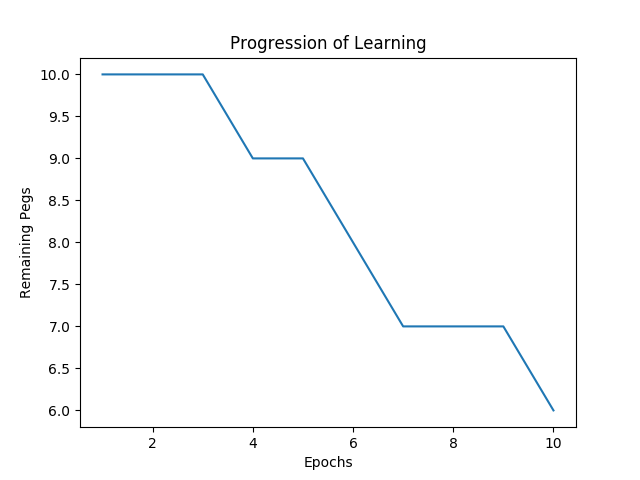
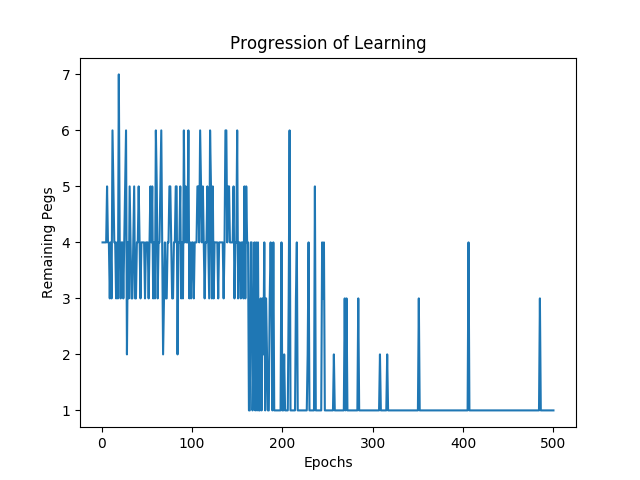
Model running and learning

diff --git a/agent/actor.py b/agent/actor.py
@@ -1,19 +1,6 @@
-"""
-POLICY:
-The actor’s policy should be represented as a table (or Python dictionary) that maps state-action pairs (s,a)
-to values that indicate the desirability of performing action a when in state s. For any state s, it is wise to
-normalize the values across all legal actions from s, thus yielding a probability distribution over the possible
-actions to take from s. The  greedy policy would then choose the action with the highest probability, or a
-random value.
-
-EPSILON:
-To insure a balance between exploration and exploitation, the actor should use its policy in an -greedy
-manner (see actor-critic.pdf), where eps is either a constant, user-supplied parameter, or a dynamic variable
-that changes (i.e. decreases) from earlier to later episodes. By setting eps = 0 at run’s end, the behavior policy
-essentially becomes the target policy. By displaying one game played with this policy, the user sees the best
-moves that the actor has found for the states of an episode.
-"""
 from collections import defaultdict
+from utils import is_empty
+import random
 
 
 class Actor:
@@ -26,6 +13,8 @@ class Actor:
         self.eligibility = defaultdict(lambda: 0)
         self.player = player
         self.td_error = None
+        self.epsilon = config["epsilon"]  # Epsilon for epsilon-greedy strategy
+        self.dr_epsilon = config["dr_epsilon"]  # Decay rate epsilon
 
     def reset_eligibility(self):
         """
@@ -41,7 +30,7 @@ class Actor:
         :param action: Action
         :return: float
         """
-        return self.policy[(state, action)]
+        return self.policy[(state, action.__str__())]
 
     def get_action(self, state):
         """
@@ -51,11 +40,13 @@ class Actor:
         """
         legal_actions = list(map(lambda action: (action, self.get_desirability(state, action)),
                                  self.player.get_legal_actions()))
-        legal_actions.sort(key=lambda tup: tup[1], reverse=True)
-        try:
-            return legal_actions[0][0]
-        except IndexError:
+        if is_empty(legal_actions):
             return None
+        if random.random() < self.epsilon:
+            return random.choice(legal_actions)[0]
+        else:
+            legal_actions.sort(key=lambda tup: tup[1], reverse=True)
+            return legal_actions[0][0]
 
     def set_eligibility(self, state, action, value):
         """
@@ -65,7 +56,7 @@ class Actor:
         :param value: int
         :return: None
         """
-        self.eligibility[(state, action)] = value
+        self.eligibility[(state, action.__str__())] = value
 
     def set_td_error(self, error):
         """
@@ -74,6 +65,14 @@ class Actor:
         :return: None
         """
         self.td_error = error
+
+    def set_epsilon(self, value):
+        """
+        Set the value of epsilon to value
+        :param: value: float
+        :return: None
+        """
+        self.epsilon = value
 
     def update_policy(self, state, action):
         """
@@ -84,7 +83,8 @@ class Actor:
         :param action: Action
         :return: None
         """
-        self.policy[(state, action)] += self.config["lr_actor"] * self.td_error * self.eligibility[(state, action)]
+        self.policy[(state, action.__str__())] += self.config["lr_actor"] * self.td_error * self.eligibility[
+            (state, action.__str__())]
 
     def update_eligibility(self, state, action):
         """
@@ -95,4 +95,13 @@ class Actor:
         :param action: Action
         :return: None
         """
-        self.eligibility[(state, action)] *= self.config["df_actor"] * self.config["tdf_actor"]
+        self.eligibility[(state, action.__str__())] *= self.config["df_actor"] * self.config["dr_actor"]
+
+    def update_epsilon(self):
+        """
+        Update the value of epsilon.
+        The update rule is defined as:
+            epsilon = dr_epsilon * epsilon
+        :return: None
+        """
+        self.epsilon = self.dr_epsilon * self.epsilon

diff --git a/environment/board.py b/environment/board.py
@@ -25,6 +25,12 @@ class PegBoard(ABC):
             except AttributeError:
                 raise AttributeError("Cell({}{}) does not have 'is_peg' attribute.".format(row, column))
 
+    def reset(self):
+        """
+        Initialize a new board
+        """
+        self.init_board()
+
     def get_cell(self, coord):
         """
         Return cell at the given coordinate on the board
@@ -118,16 +124,11 @@ class DiamondPegBoard(PegBoard):
 
     def __init__(self, config):
         super(DiamondPegBoard, self).__init__(config)
-        # Fill board with pegs
-        self.init_board()
-
-        # Remove pegs where there should be holes
-        self.init_holes()
-
         # Each cell will have a maximum of 6 neighbours:
         # (r-1,c) (r-1,c+1), (r,c-1), (r.c+1), (r+1,c-1), (r+1,c)
         self.pattern = [(-1, 0), (-1, 1), (0, - 1), (0, 1), (1, - 1), (1, 0)]
-        self.set_neighbours(self.pattern)
+
+        self.init_board()
 
     def init_board(self):
         """
@@ -137,21 +138,21 @@ class DiamondPegBoard(PegBoard):
             for column in range(self.size):
                 self.set_cell(Cell(row, column, True))
 
+        # Remove pegs where there should be holes
+        self.init_holes()
+
+        self.set_neighbours(self.pattern)
+
 
 class TrianglePegBoard(PegBoard):
 
     def __init__(self, config):
         super(TrianglePegBoard, self).__init__(config)
-        # Fill board with pegs
-        self.init_board()
-
-        # Remove pegs where there should be holes
-        self.init_holes()
-
         # Each cell will have a maximum of 6 neighbours:
         # (r-1,c-1), (r-1,c), (r,c-1), (r, c+1), (r+1,c), (r+1, c+1)
         self.pattern = [(- 1, - 1), (- 1, 0), (0, - 1), (0, + 1), (1, 0), (1, 1)]
-        self.set_neighbours(self.pattern)
+
+        self.init_board()
 
     def init_board(self):
         """
@@ -160,3 +161,8 @@ class TrianglePegBoard(PegBoard):
         for row in range(self.size):
             for column in range(row + 1):
                 self.set_cell(Cell(row, column, True))
+
+        # Remove pegs where there should be holes
+        self.init_holes()
+
+        self.set_neighbours(self.pattern)

diff --git a/main.py b/main.py
@@ -2,6 +2,7 @@ from utils import load_config, init_logger
 import logging
 from environment.sim_world import SimWorld
 from agent.reinforcement_learner import ReinforcementLearner
+from plotting import plot_progression_of_learning
 
 if __name__ == '__main__':
     init_logger()
@@ -22,9 +23,19 @@ if __name__ == '__main__':
     actor = rl.get_actor()
     critic = rl.get_critic()
 
+    # Log for remaining pegs at the end of each game
+    remaining_pegs_pr_episode = []
+
     # Start the generic actor-critic algorithm
     for episode in range(1, training_config["episodes"] + 1):
-        logging.info("Episode: {}".format(episode))
+        if episode % 50 == 0:
+            logging.info("Episode: {}".format(episode))
+
+        # If it is the last episode - no random actions should be selected
+        if episode == training_config["episodes"]:
+            actor.set_epsilon(0)
+        else:
+            actor.update_epsilon()
 
         # List of (state, action) pairs chosen this episode
         current_episode = []
@@ -64,3 +75,12 @@ if __name__ == '__main__':
 
             # Continue until s reaches an end state
             state, action = new_state, new_action
+
+        # Game ended, add results to log
+        remaining_pegs_pr_episode.append(board.num_pegs_on_board())
+
+        # Reset board for next game
+        board.reset()
+
+    # All episodes has ran, save results
+    plot_progression_of_learning(remaining_pegs_pr_episode)

diff --git a/environment/cell.py b/environment/cell.py
@@ -10,7 +10,7 @@ class Cell:
         Add cell to the table of neighbours mapping from (row, col) -> {cell, pattern}
         This might be switched out with simple list in the future
         :param cell: Cell
-        :param pattern: List[tuples]
+        :param pattern: List[tuple]
         :return:
         """
         self.neighbours[(cell.row, cell.column)] = {"cell": cell, "pattern": pattern}
@@ -18,12 +18,12 @@ class Cell:
     def get_neighbours(self):
         """
         Return a list of all neighbour cells
-        :return:
+        :return: List[Cell]
         """
         return self.neighbours.values()
 
-    def __repr__(self):
-        return "({},{},{})".format(self.row, self.column, self.is_peg)
-
     def __str__(self):
+        return "({},{})".format(self.row, self.column)
+
+    def __repr__(self):
         return "({},{},{})".format(self.row, self.column, self.is_peg)

diff --git a/plotting.py b/plotting.py
@@ -1,12 +1,14 @@
 import matplotlib.pyplot as plt
 import networkx
+import numpy as np
 
 
-def plot_progression_of_learning(epochs, remaining_pegs, path="./graphs/progression_of_learning.png"):
+def plot_progression_of_learning(remaining_pegs, path="./graphs/progression_of_learning.png"):
     plt.title("Progression of Learning")
     plt.xlabel("Epochs")
     plt.ylabel("Remaining Pegs")
-    plt.plot(epochs, remaining_pegs)
+    episodes = np.arange(1, len(remaining_pegs) + 1)
+    plt.plot(episodes, remaining_pegs)
     plt.savefig(path)
     plt.show()
 

diff --git a/environment/action.py b/environment/action.py
@@ -11,5 +11,8 @@ class Action:
         self.over = over  # Cell that is being moved over
         self.to_ = to_  # Cell that is being moved to
 
+    def __str__(self):
+        return "{}{}{}".format(self.from_.__str__(), self.over.__str__(), self.to_.__str__())
+
     def __repr__(self):
         return "{}-{}".format(self.from_, self.to_)

diff --git a/agent/critic.py b/agent/critic.py
@@ -81,7 +81,7 @@ class TableCritic(Critic):
         :param state: str
         :return: None
         """
-        self.eligibility[state] *= self.config["df_critic"] * self.config["tdf_critic"]
+        self.eligibility[state] *= self.config["df_critic"] * self.config["dr_critic"]
 
     def set_eligibility(self, state, value):
         """

diff --git a/utils.py b/utils.py
@@ -43,3 +43,12 @@ def init_logger():
             logging.FileHandler("app.log", mode="w"),
             logging.StreamHandler()
         ])
+
+
+def is_empty(lst):
+    """
+    Return boolean if the list is empty or not
+    :param lst: list
+    :return: boolean
+    """
+    return len(lst) == 0
